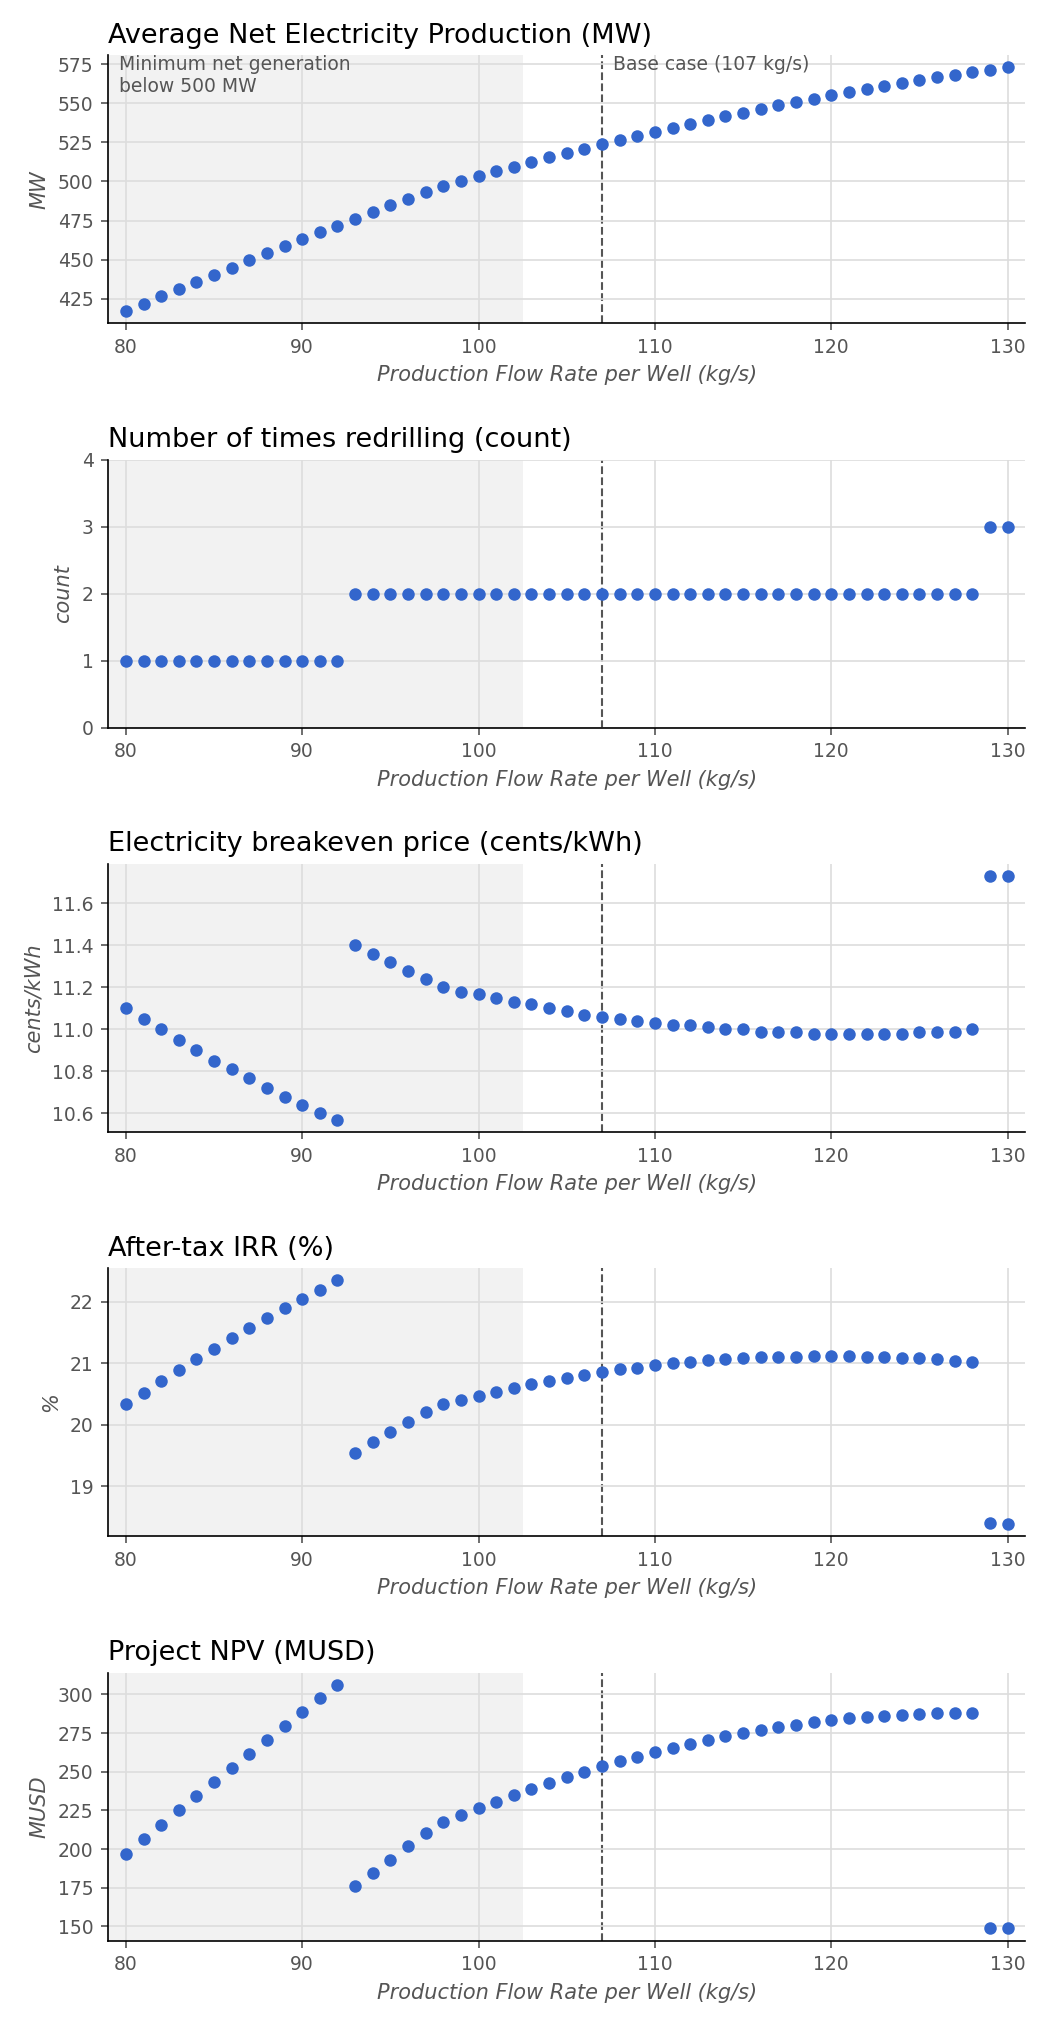
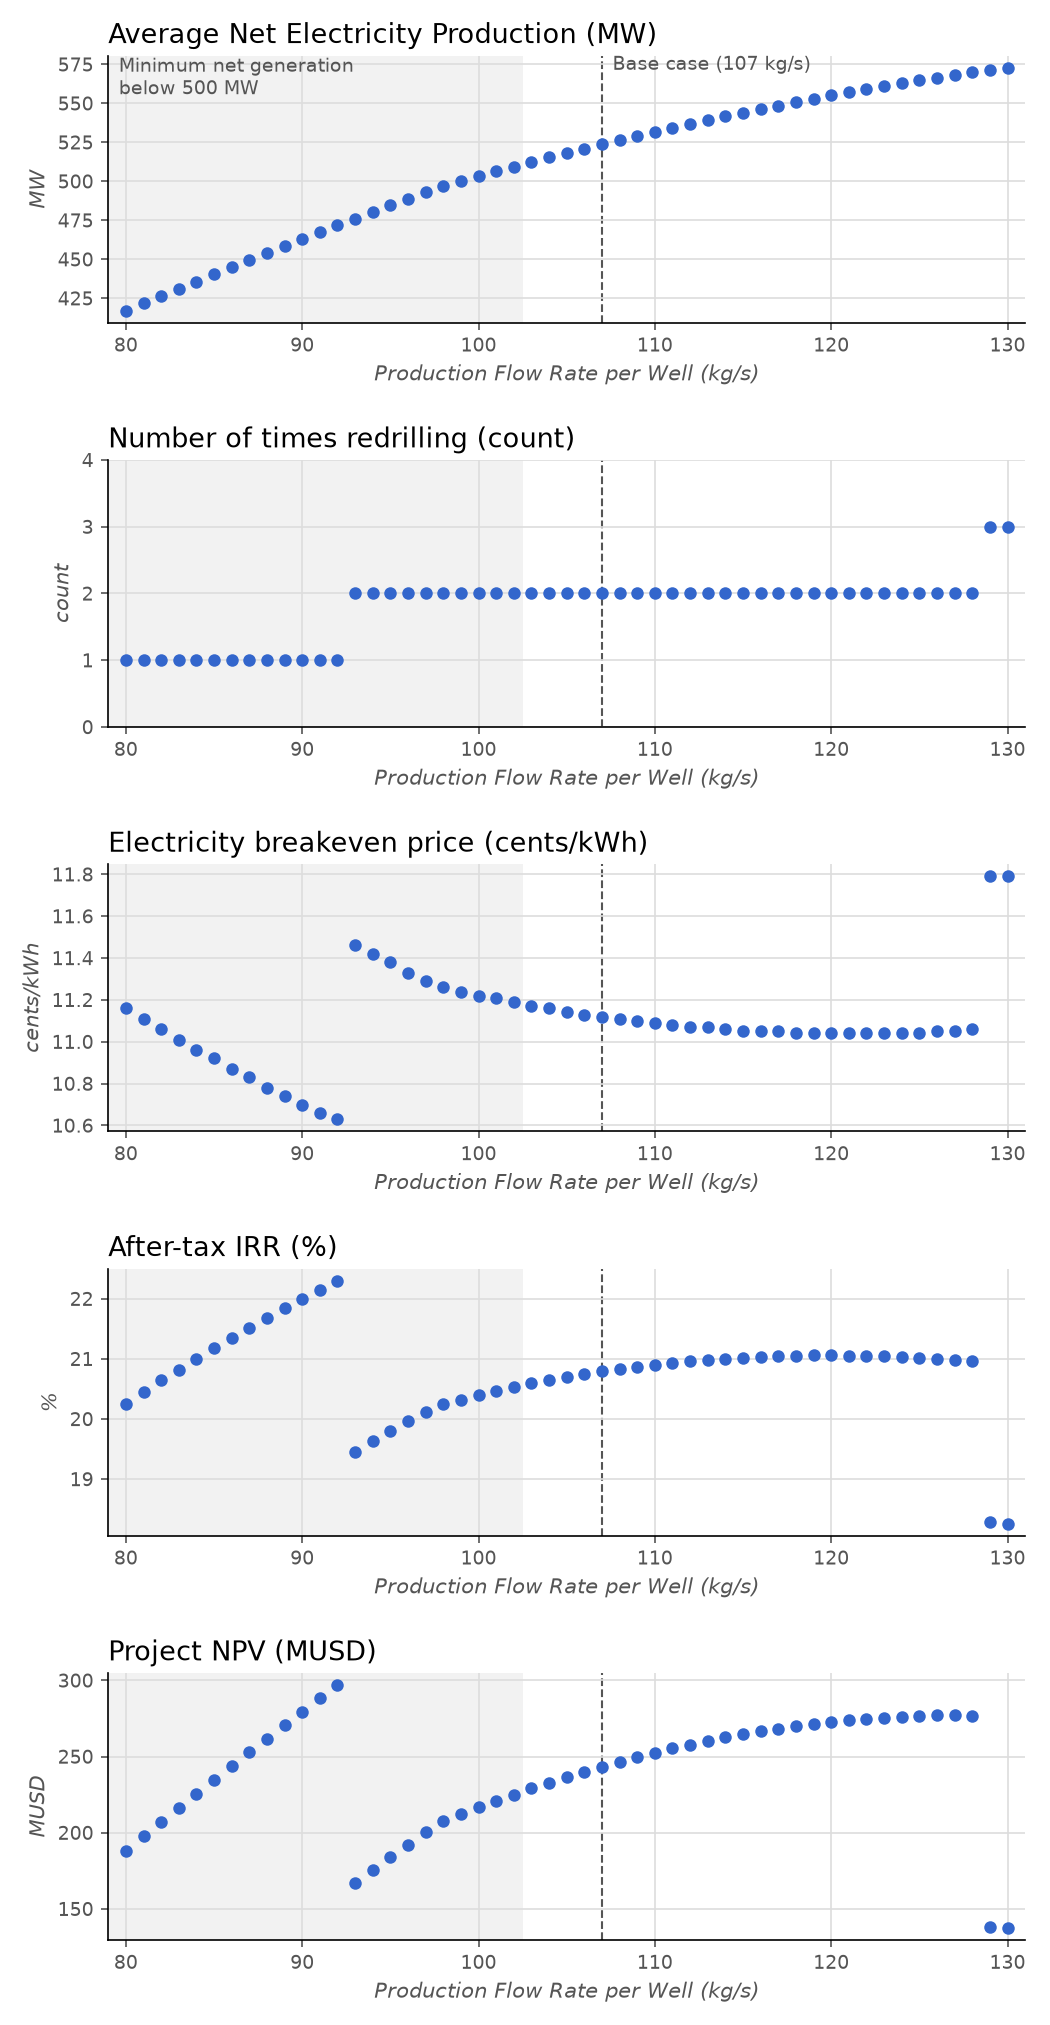
Update Fervo case study docs, flow rate parametric data, and tests for 10% default salvage value (#516)

diff --git a/tests/geophires_x_tests/test_fervo_project_cape_7.py b/tests/geophires_x_tests/test_fervo_project_cape_7.py
@@ -394,8 +394,8 @@ class FervoProjectCape7TestCase(BaseTestCase):
 
         self.assertEqual(round(result.result['ECONOMIC PARAMETERS']['Project NPV']['value'], 1), values['npv_musd'])
 
-        # The SAM Single Owner PPA template's salvage percentage
-        self.assertEqual('50', values['salvage_value_pct_of_total_capex'])
+        # The default Salvage Value Rate
+        self.assertEqual('10', values['salvage_value_pct_of_total_capex'])
 
         self.assertGreaterEqual(values['min_dscr_year'], 1)
         self.assertGreater(float(values['min_dscr']), 1.0)
@@ -459,7 +459,7 @@ class FervoProjectCape7TestCase(BaseTestCase):
         result_changes_md = generate_fervo_project_cape_7_md.generate_fpc7_previous_version_result_changes_table_md(
             previous_result, result
         )
-        self.assertIn('| LCOE ($/MWh) | 85.0 |', result_changes_md)
+        self.assertIn('| LCOE ($/MWh) | 85.5 |', result_changes_md)
         self.assertIn('| Redrilling events | 3 |', result_changes_md)
 
         # Previous and this version compared to themselves

diff --git a/docs/Fervo_Project_Cape-4.md b/docs/Fervo_Project_Cape-4.md
@@ -14,7 +14,7 @@ Financial results are calculated
 using
 the [SAM Single Owner PPA Economic Model](https://softwareengineerprogrammer.github.io/GEOPHIRES/SAM-Economic-Models.html#sam-single-owner-ppa).
 
-Key case study results include LCOE = $81.1/MWh and CAPEX = $5000/kW.
+Key case study results include LCOE = $81.5/MWh and CAPEX = $5000/kW.
 
 [Click here](https://gtp.scientificwebservices.com/geophires/?geophires-example-id=Fervo_Project_Cape-4) to
 interactively explore the case study in the GEOPHIRES web interface.
@@ -89,13 +89,13 @@ in source code for the complete results.
 
 | Metric                             | Result Value                                           | Reference Value(s)                                             | Reference Source                                 |
 |------------------------------------|--------------------------------------------------------|----------------------------------------------------------------|--------------------------------------------------|
-| LCOE                               | $81.1/MWh                                              | $80/MWh                                                        | Horne et al, 2025                                |
+| LCOE                               | $81.5/MWh                                              | $80/MWh                                                        | Horne et al, 2025                                |
 | Project capital costs: Total CAPEX | $2.66B                                                 |                                                                |                                                  |
 | Project capital costs: $/kW        | $5000/kW (based on maximum net electricity generation) | $5000/kW; $4500/kW; $3000–$6000/kW                             | McClure, 2024; Horne et al, 2025; Latimer, 2025. |
 | Well Drilling and Completion Costs | $3.96M/well; $467.75M total                            | $<4M/well                                                      | Latimer, 2025.                                   |
 | Stimulation Costs                  | $4.6M/well; $542.8M total                              | $4.65M/well (based on 46%:54% drilling:stimulation cost ratio) | (Yusifov & Enriquez, 2025)                       |
 | WACC                               | 8.3%                                                   | 8.3%                                                           | Matson, 2024.                                    |
-| After-tax IRR                      | 27.55%                                                 | 15–25%                                                         | Typical levered returns for energy projects      |
+| After-tax IRR                      | 27.52%                                                 | 15–25%                                                         | Typical levered returns for energy projects      |
 
 ### Technical & Engineering Results
 
